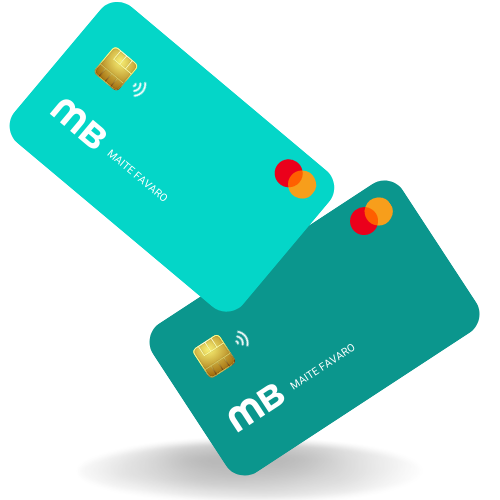
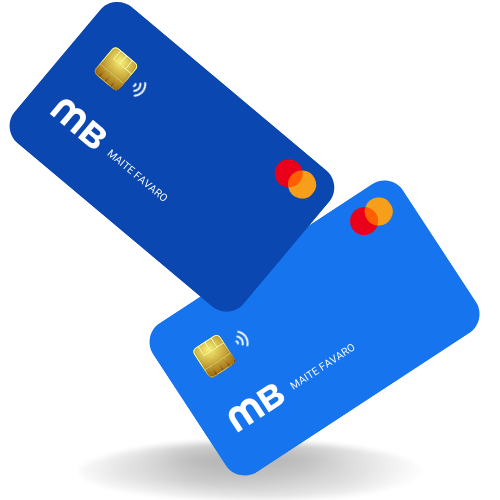
alteração das cores

diff --git a/src/App.jsx b/src/App.jsx
@@ -19,9 +19,10 @@ export const App = () => {
       <Fullpage>
       
         <FullPageSections>
-        <Navbar/>
+        
 
           <FullpageSection style={{height: '100vh'}}>
+            <Navbar />
             <div className="flex justify-around bg-center bg-cover h-full items-center bg-gradient-to-r from-azulclaro to-black" >
               <div className="bg-white w-[30%] h-fit px-16 py-16 rounded-xl flex flex-col gap-2">
                 <div className=' space-y-9'>
@@ -46,29 +47,50 @@ export const App = () => {
           <FullpageSection style={{height: '100vh'}}>
             <div className="w-full bg-white flex h-screen justify-evenly items-center">
               <img className="w-[30rem]" src="img/cart_sombra.png" alt="Erro" />
-              <img className="w-[35rem]" src="img/comigo.png" alt="Erro" />
+              <div>
+                <p className='font-bold text-4xl'>comigo, coisa boa nunca <br /> vem sozinha.</p>
+                <p className='text-4xl'>é por isso <br /> que eu tenho um monte <br /> de vantagens pra você <br /> aproveitar.</p>
+              </div>
             </div>
           </FullpageSection>
 
 
           <FullpageSection style={{height: '100vh'}}>
-            <div className="w-full bg-cinzaa flex h-screen justify-around items-center">
+            <div className="w-full bg-black flex h-screen justify-around items-center">
               <div>
-                <div className='text-4xl font-bold p-2 mt-10 mx-auto border-transparent rounded-full text-black text-center mb-16'>
-                  <p><a className='text-teal-400'>peça agora</a> seu cartão de</p>
-                  <p>crédito MB <a className='text-teal-400'>sem anuidade</a></p>  
+
+                <div className='text-4xl font-bold p-2 mt-10 mx-auto border-transparent rounded-full text-white text-center mb-16'>
+                  <p><a className='text-azulclaro'>peça agora</a> seu cartão de</p>
+                  <p>crédito MB <a className='text-azulclaro'>sem anuidade</a></p>  
                 </div>
-                <div class="grid gap-4 grid-cols-2 justify-evenly bg-cinzaa rounded-xl ml-10 " style={{padding:'30px'}} >
-                  <div className='text-2xl font-bold' style={{marginBottom:'100px'}}><p><img src="img/cifrao.png" alt="" style={{width:'64px', }}/></p><p>Cartão de crédito com </p>limite de até R$20 mil</div>
-                  <div className='text-2xl font-bold'><p><img src="img/credito.png" alt="Erro" style={{width:'64px',}}/></p><p>Comece a usar o cartão</p><p> de crédito virtual logo</p> após a aprovação</div>
-                  <div className='text-2xl font-bold'><p><img src="img/pedagio.png" alt="Erro" style={{width:'64px', }}/></p><p>Livre de mensalidades</p><p> em pedágios e</p> estacionamentos</div>
-                  <div className='text-2xl font-bold'><p><img src="img/presente.png" alt="Erro" style={{width:'64px', }}/></p><p>2 meses de Disney Plus</p> grátis e outros benefícios</div>          
-                </div>
-                <div className='w-48 p-2 mt-10 mx-auto border-transparent rounded-full text-white bg-verdeagua hover:bg-verdeagua_escuro font-semibold text-base text-center'>
+
+                  <div class="grid gap-4 grid-cols-2 justify-evenly rounded-xl ml-10 " style={{padding:'30px'}} >
+
+                    <div className='text-2xl font-bold' style={{marginBottom:'100px'}}>
+                      <p><img src="img/cifrao.png" alt="" style={{width:'64px', }}/></p>
+                      <p className='text-white'>Cartão de crédito com <br />limite de até R$20 mil  </p>
+                    </div>
+                    
+                    <div className='text-2xl font-bold'>
+                      <p><img src="img/cartao-de-credito.png" alt="Erro" style={{width:'64px',}}/></p>
+                      <p className='text-white' >Comece a usar o cartão <br /> de crédito virtual logo <br /> após a aprovação </p>
+                    </div>
+
+                    <div className='text-2xl font-bold'><p><img src="img/estrada-com-pedagio.png" alt="Erro" style={{width:'64px', }}/></p>
+                      <p className='text-white'>Livre de mensalidades <br /> em pedágios e <br /> estacionamentos</p>
+                    </div>
+
+                    <div className='text-2xl font-bold'><p><img src="img/presente.png" alt="Erro" style={{width:'64px', }}/></p>
+                      <p className='text-white'>2 meses de Disney Plus <br /> grátis e outros benefícios</p>
+                    </div>      
+
+                  </div>
+
+                <div className='w-48 p-2 mt-10 mx-auto border-transparent rounded-full text-white bg-azulclaro hover:bg-azulescuro2 font-semibold text-base text-center'>
                   <a href='<a href="https://api.whatsapp.com/send?phone=5519989558913&text=Ol%C3%A1!">'>Peça seu cartão </a>
                 </div>
               </div>
-                <img className="w-[42rem]" src="img/cel_card.png" alt="Erro" />
+                <img className="w-[42rem]" src="img/macbook.png" alt="Erro" />
             </div>
           </FullpageSection>
 
@@ -93,8 +115,8 @@ export const App = () => {
               <img className='w-[35rem]' src="img/yoga.svg" alt="Erro" />
               <p>
                 <h1 className='text-6xl font-bold p-2 mt-10 mx-auto border-transparent rounded-full text-black text-center mb-16'>E sem burocracia</h1>
-                <p className='text-4xl font-bold p-2 mx-auto border-transparent rounded-full text-black text-center '>Soluções simples, seguras e <a className='text-teal-400'>100%</a> </p>
-                <p className='text-4xl font-bold mx-auto border-transparent rounded-full text-black text-center '><a className='text-teal-400'>digitais</a> para você fazer tudo</p>
+                <p className='text-4xl font-bold p-2 mx-auto border-transparent rounded-full text-black text-center '>Soluções simples, seguras e <a className='text-azulclaro'>100%</a> </p>
+                <p className='text-4xl font-bold mx-auto border-transparent rounded-full text-black text-center '><a className='text-azulclaro'>digitais</a> para você fazer tudo</p>
                 <p className='text-4xl font-bold mx-auto border-transparent rounded-full text-black text-center '>diretamente pelo celular.</p>
               </p>
             </div>

diff --git a/src/index.css b/src/index.css
@@ -24,6 +24,7 @@
     font-size: 4rem;
 }
 
+
 ::-webkit-scrollbar {
     display: none;
     }
